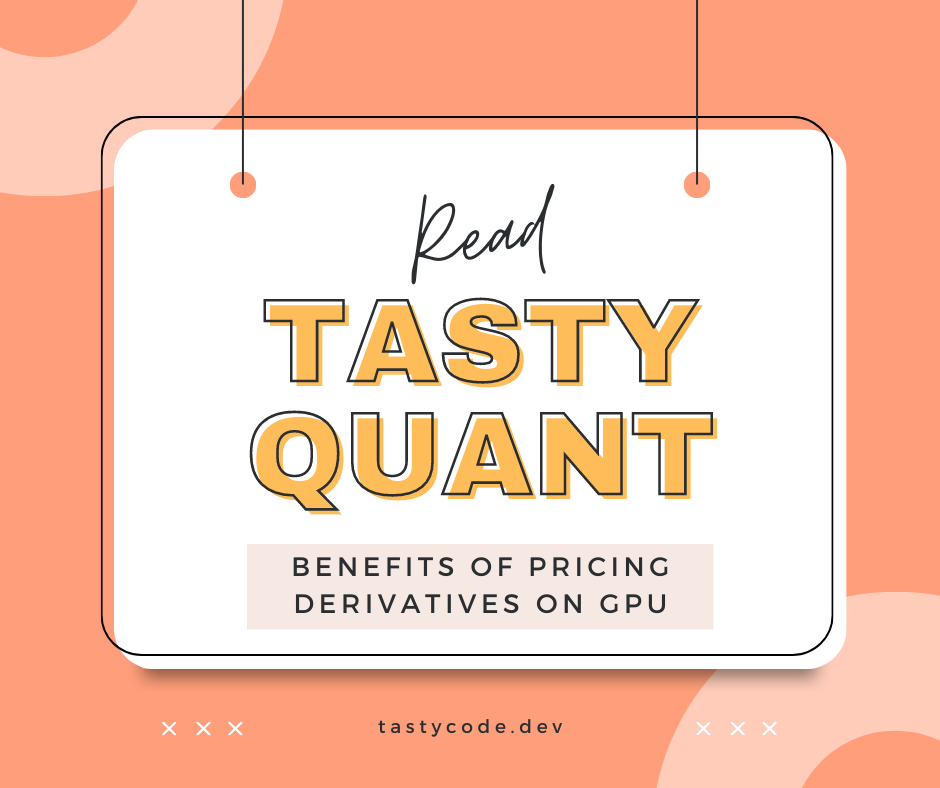
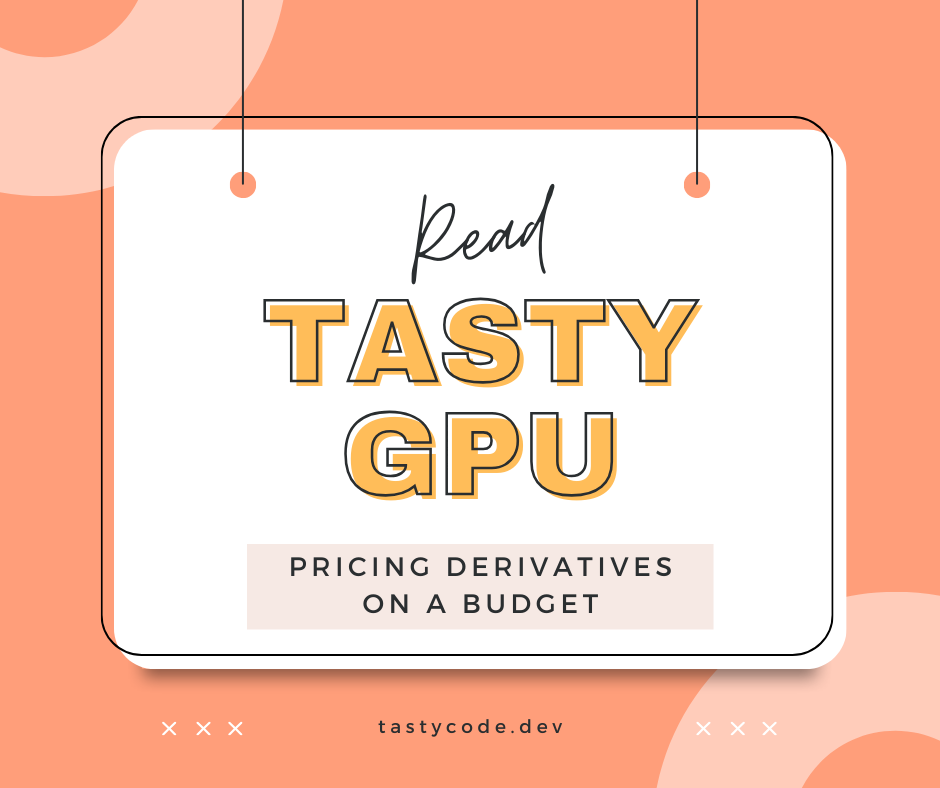
Publish 'Tasty GPU - Pricing Derivatives on a Budget'

Changed region(s): [[0.2468, 0.5178, 0.7713, 0.6701], [0.3085, 0.7005, 0.7096, 0.7919]]

diff --git a/assets/css/main.css b/assets/css/main.css
@@ -40,7 +40,7 @@
   }
 
   .content {
-    background-color: theme("colors.neutral.100");
+    background-color: white;
     @apply pb-1 min-h-screen px-12;
   }
 
